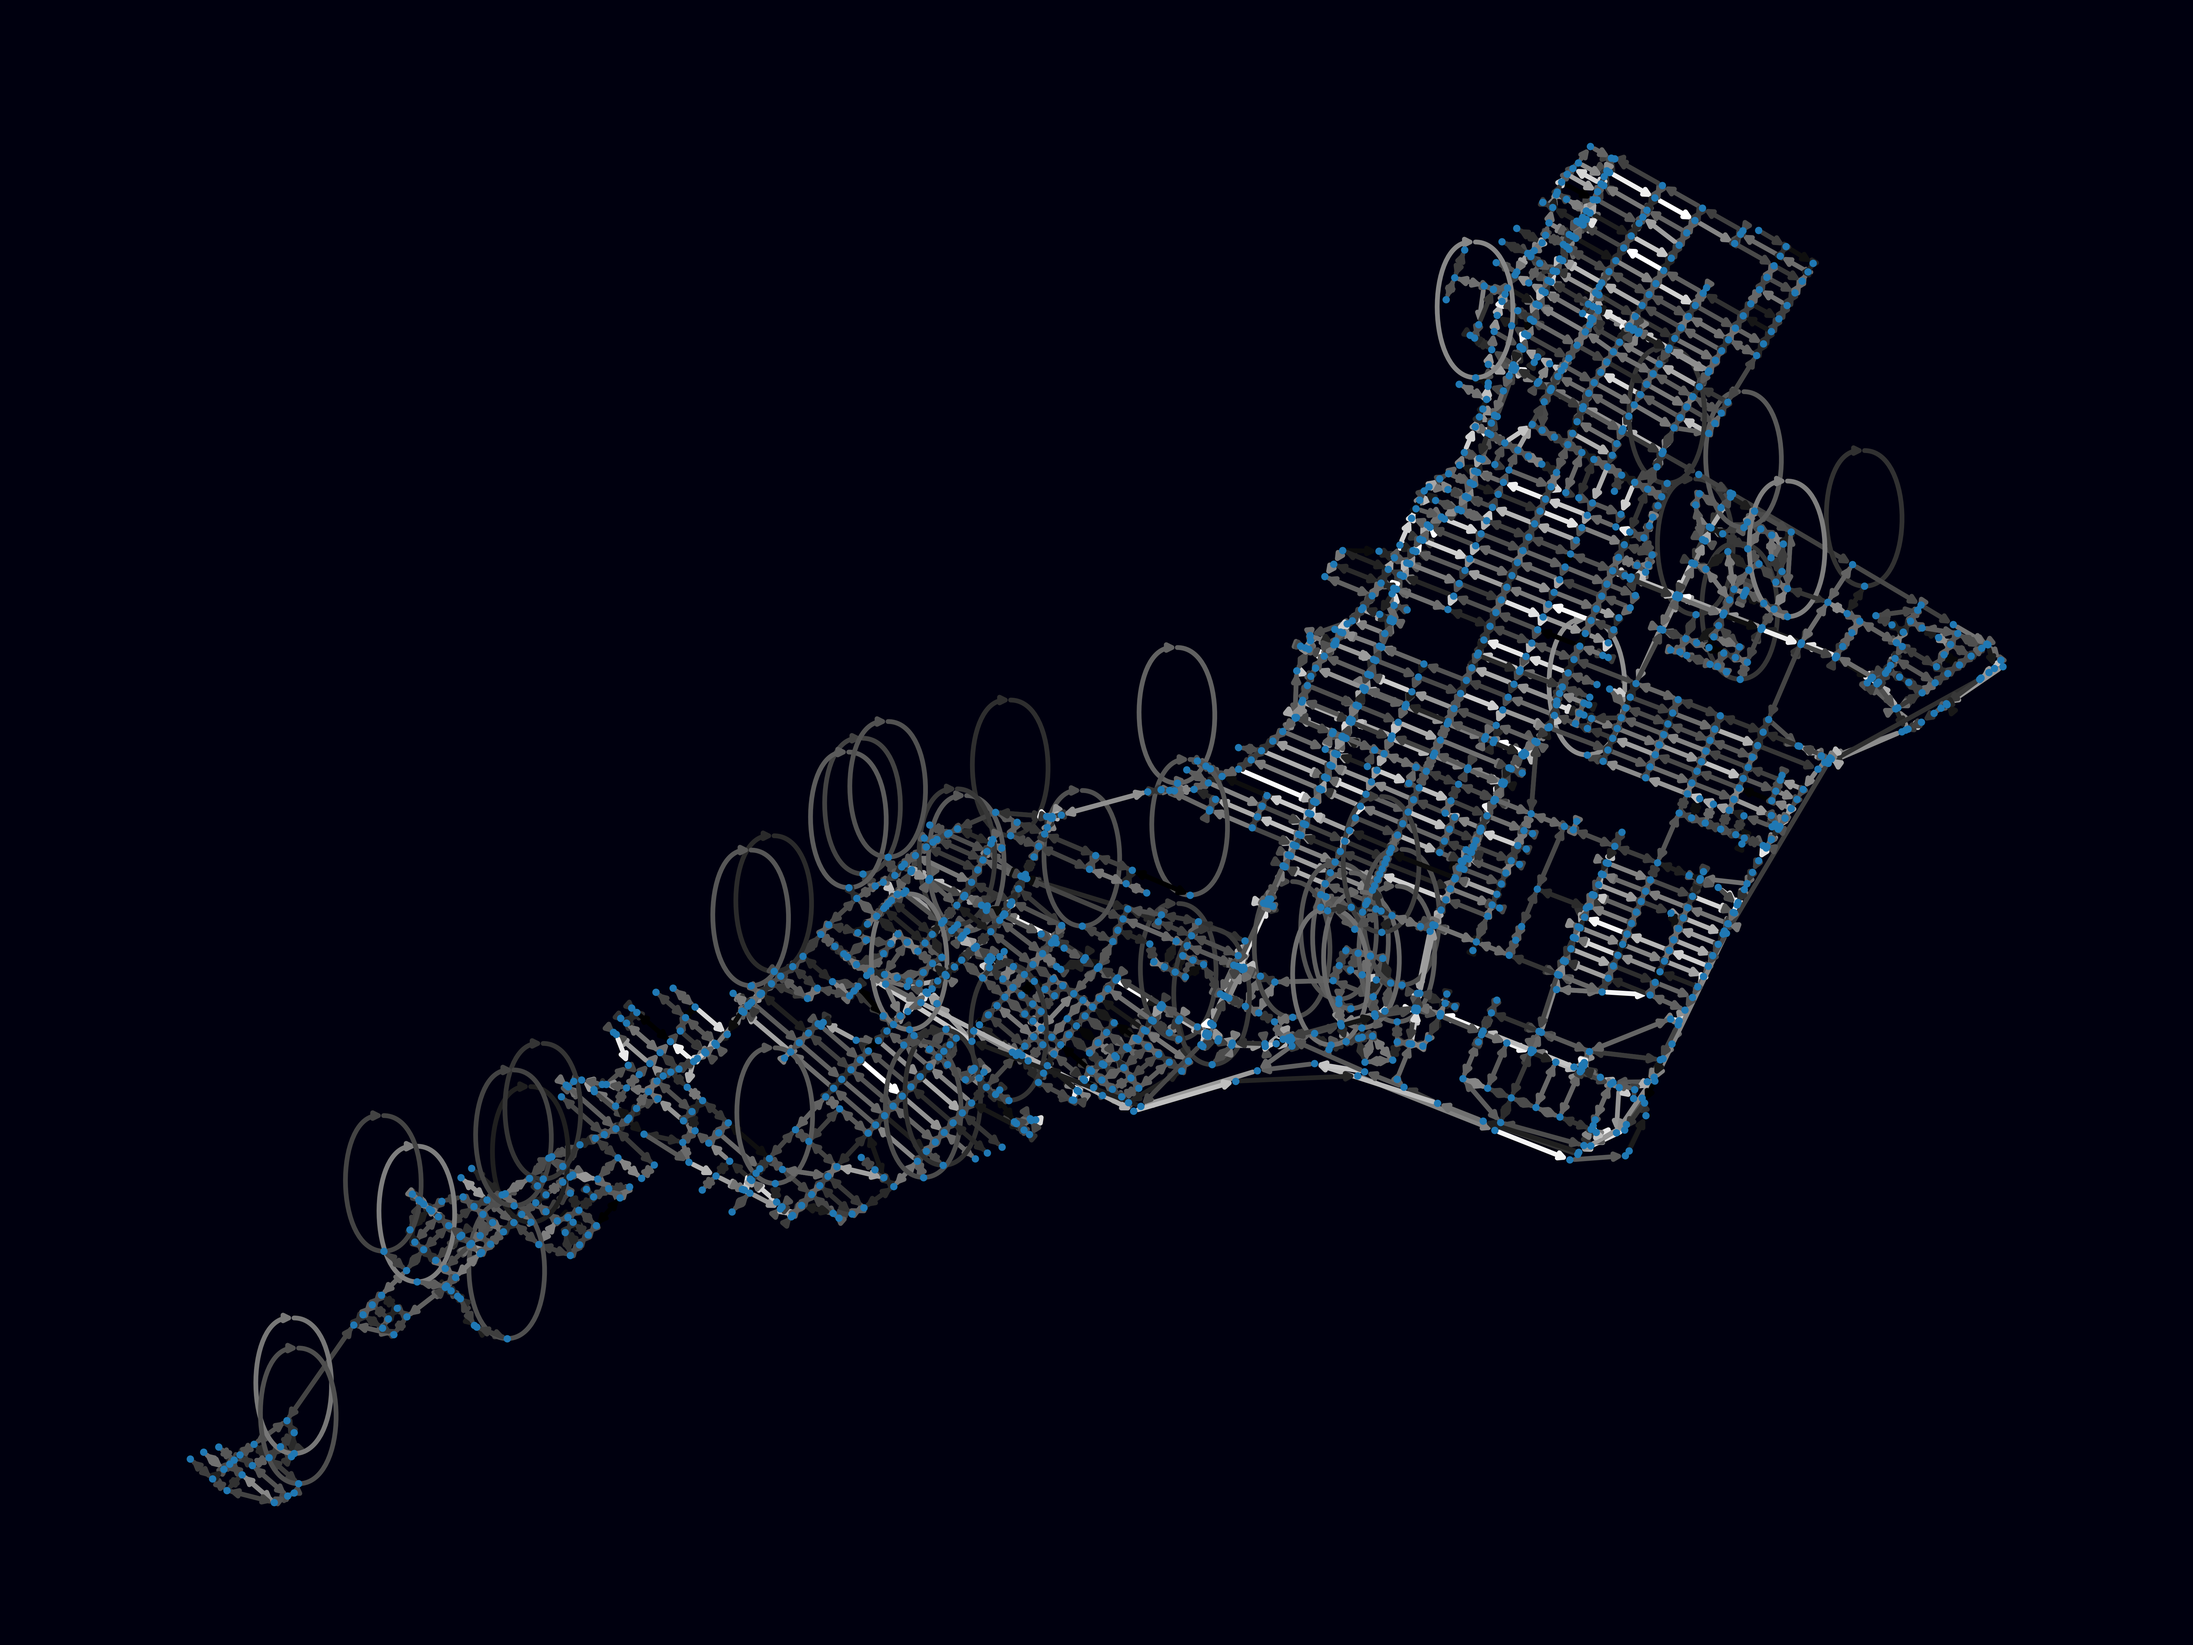
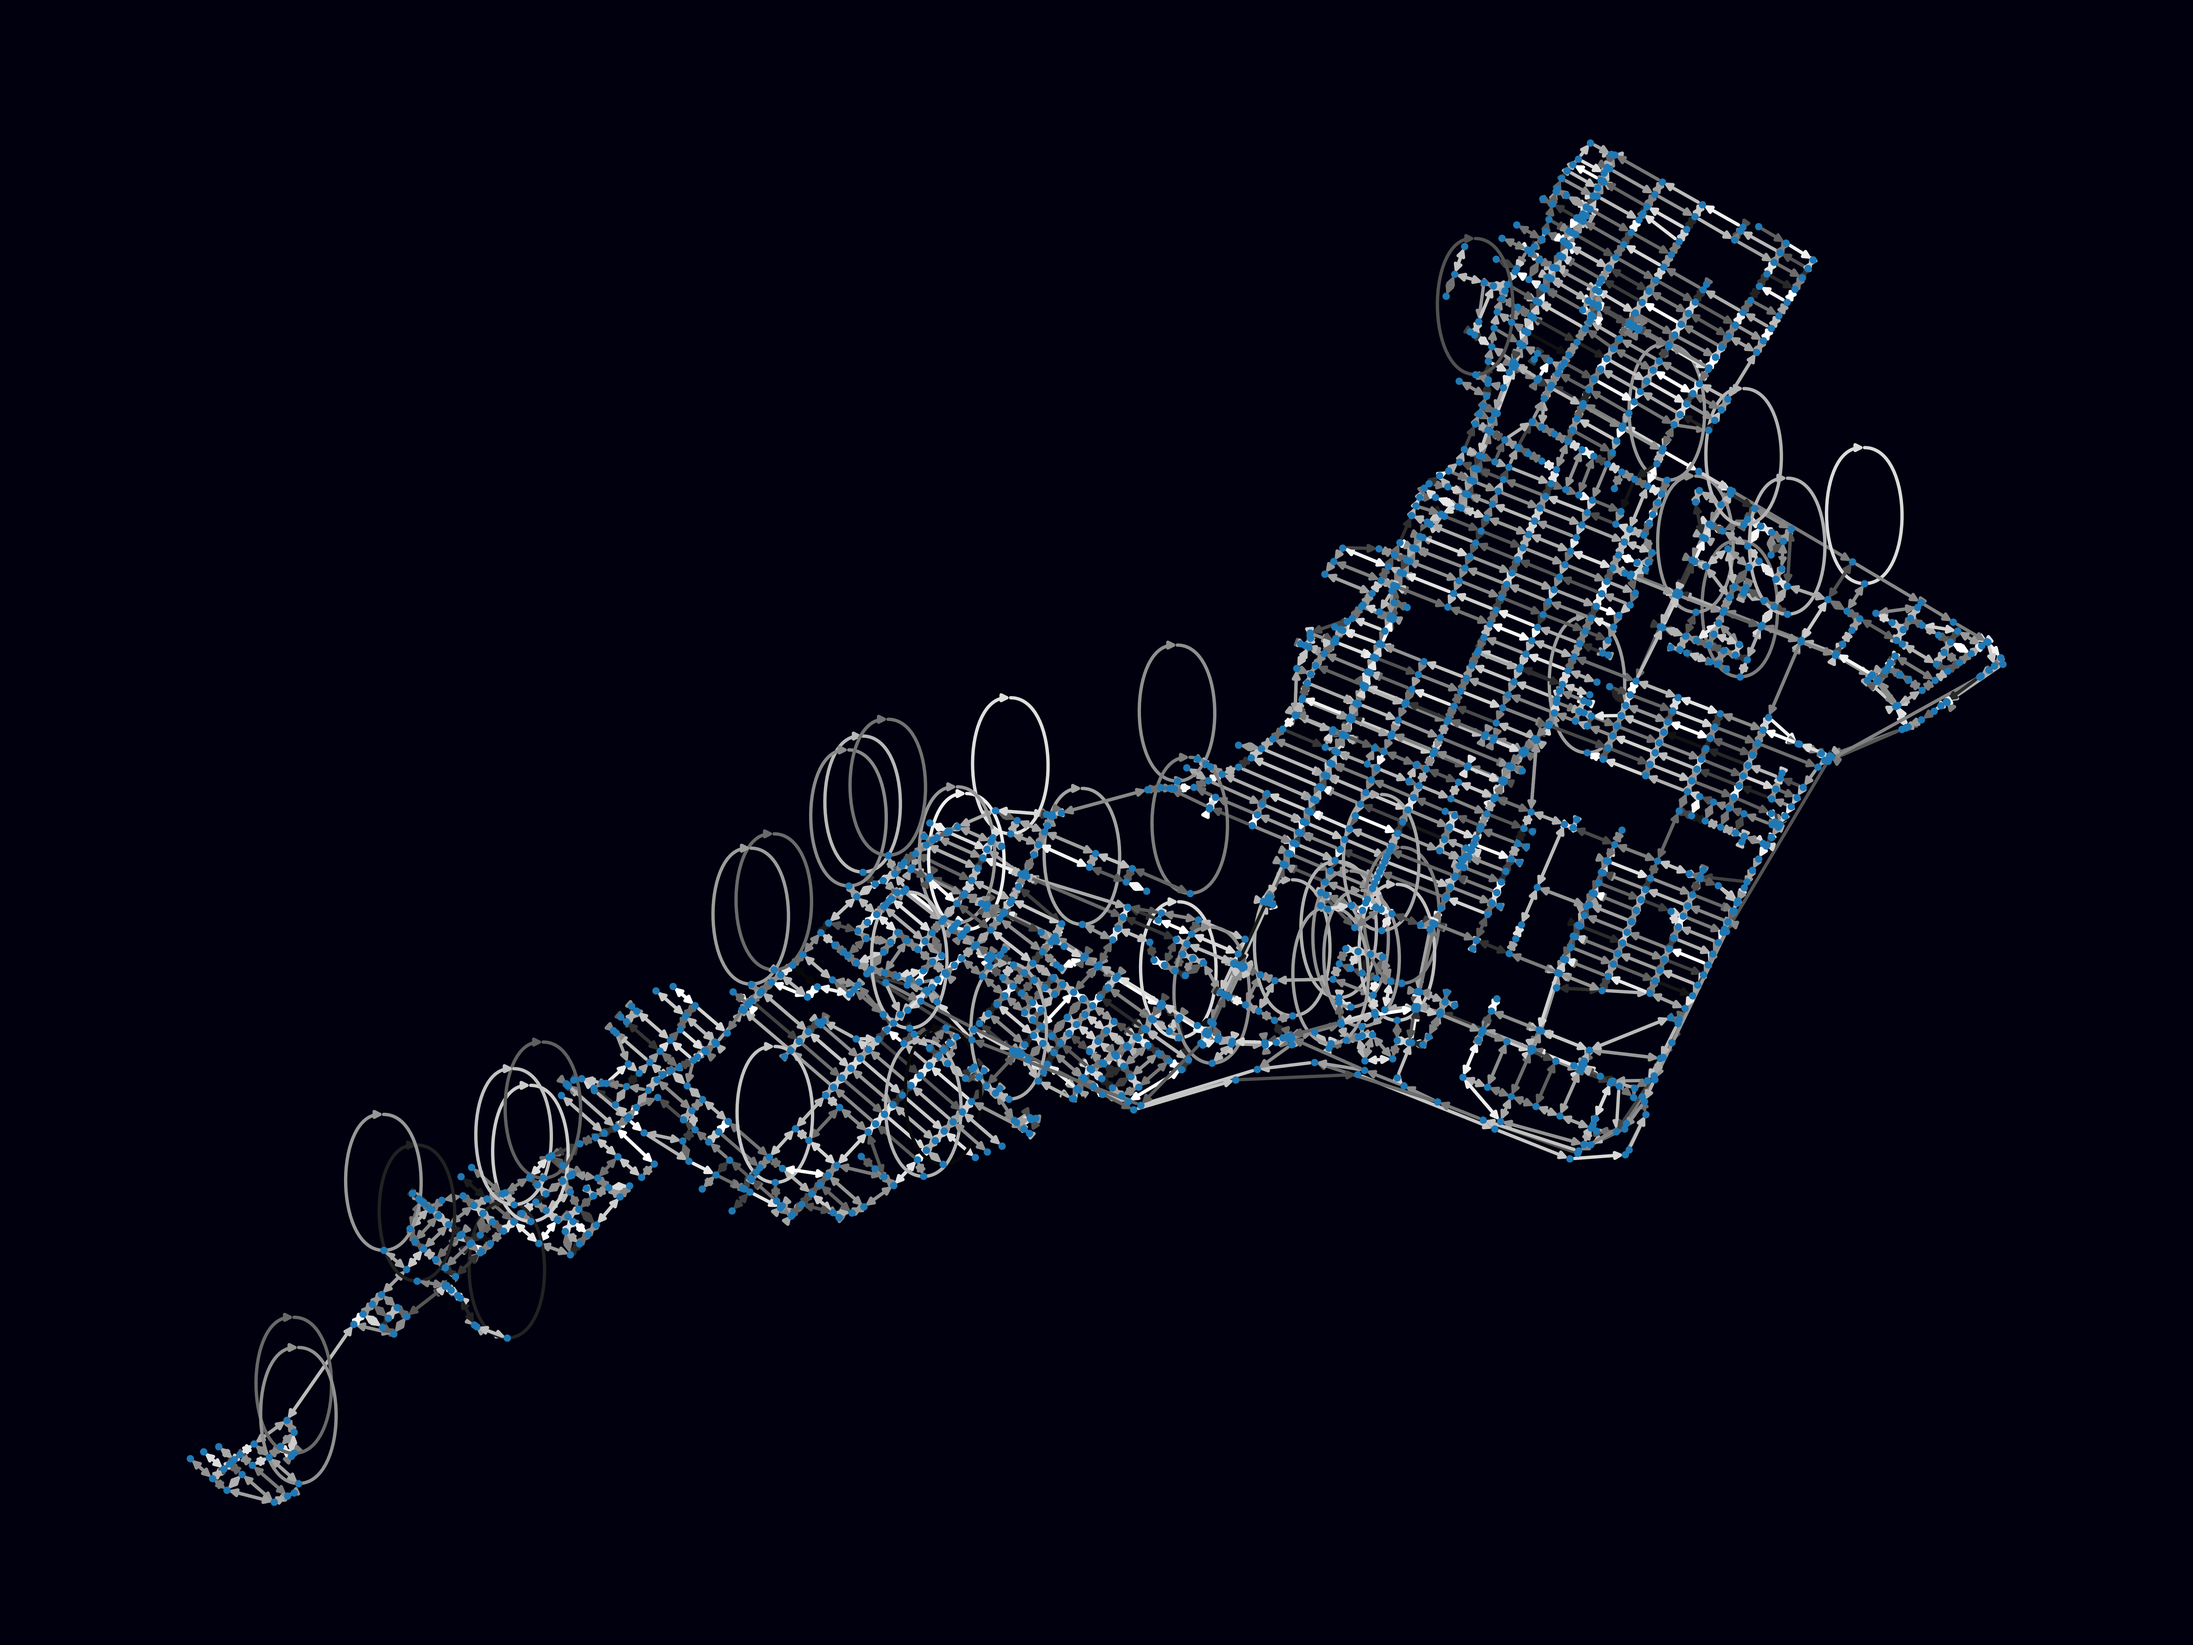
1

Changed region(s): [[0.1562, 0.0938, 0.9062, 0.8125], [0.0938, 0.8125, 0.1562, 0.9062]]

diff --git a/practical/data.py b/practical/data.py
@@ -167,7 +167,7 @@ def plot_cycle_split(name, subName, originalNxGraph, cycle, G_cycle, G_nodes, pl
     step = 0
     n = 0
     for edge in G_cycle.edges:
-        color = list(colors.values())[n]
+        color = list(colors.values())[n % len(colors.values())]
         edge_color.append(color)
         i += 1
         if step > steps_per_plow:
@@ -233,15 +233,16 @@ def save_data(name, cycle, snow, plows):
     lines = [
         "distance : " + str(round(total_distance_km, 2)) + "km\n",
         "snow : " + str(round(total_snow_volume, 2)) + "m3\n",
-        "fuel spent : " + str(round(s, 2)) + "L\n"
-        "fuel cost : " + str(round(s * avg_fuel_cost, 2)) + "$\n"
-        "time : " + hours_to_HMS(t / plows)
+        "fuel spent : " + str(round(s, 2)) + "L\n",
+        "fuel cost : " + str(round(s * avg_fuel_cost, 2)) + "$\n",
+        "time : " + hours_to_HMS(t / plows) + "$\n",
+        "plows : " + str(plows)
         ]
     with open("imgs/" + name + "/" + name + "_data.txt", 'w') as f:
         f.writelines(lines)
 
 # plot and process the data in a directed way
-def process_directed(name, data, snow, snow_plow_per_district):
+def process_directed(name, data, snow):
     if not(os.path.isdir("imgs")):
         os.mkdir("imgs")
     if not(os.path.isdir("imgs/" + name)):
@@ -291,6 +292,29 @@ def process_directed(name, data, snow, snow_plow_per_district):
     print("Plotting the cycle")
     # plot the cycle graph
     plot_cycle(name, "directed_cycle", directedNxGraph, cycle_directed, G_cycle_directed, G_nodes)
+    total_distance_km = 0
+
+    for i in range(1, len(cycle_directed)):
+        a = cycle_directed[i - 1]
+        b = cycle_directed[i]
+        key = (a, b)
+        n_key = find_key(snow, key)
+        weight = 0
+        if n_key != None:
+            weight = n_key[2]
+        total_distance_km += (weight / 1000)
+
+    data = [
+        directedNxGraph,
+        cycle_directed,
+        G_cycle_directed,
+        G_nodes,
+        G,
+    ]
+
+    return name, total_distance_km, data
+
+def process_directed_data(name, directedNxGraph, cycle_directed, G_cycle_directed, G_nodes, G, snow_plow_per_district):
     plot_cycle_split(name, "directed_cycle_split", directedNxGraph, cycle_directed, G_cycle_directed, G_nodes, snow_plow_per_district)
     save_data(name, cycle_directed, G.snow, snow_plow_per_district)
 

diff --git a/example_for_all.py b/example_for_all.py
@@ -7,16 +7,26 @@ import matplotlib
 matplotlib.use("Agg")
 
 snow_plows = 2200
-snow_plow_per_district = round(np.floor(snow_plows / len(districts)))
-print("We dispose of", snow_plow_per_district, "plows per district")
+
+dataCollect = []
 
 def subprocess(district):
     data = getData(district)
 
     snow = process_undirected(district, data)
-    process_directed(district, data, snow, snow_plow_per_district)
+    dataCollect.append(process_directed(district, data, snow))
 
 for dis in districts:
     subprocess(dis)
+
+total = 0
+for data in dataCollect:
+    name, totalweight, cycleData = data
+    total += totalweight
+
+for data in dataCollect:
+    name, totalweight, cycleData = data
+    snow_plows_count = round((totalweight / total) * snow_plows)
+    process_directed_data(name, *cycleData, snow_plows_count)
 
 print("Finished")
